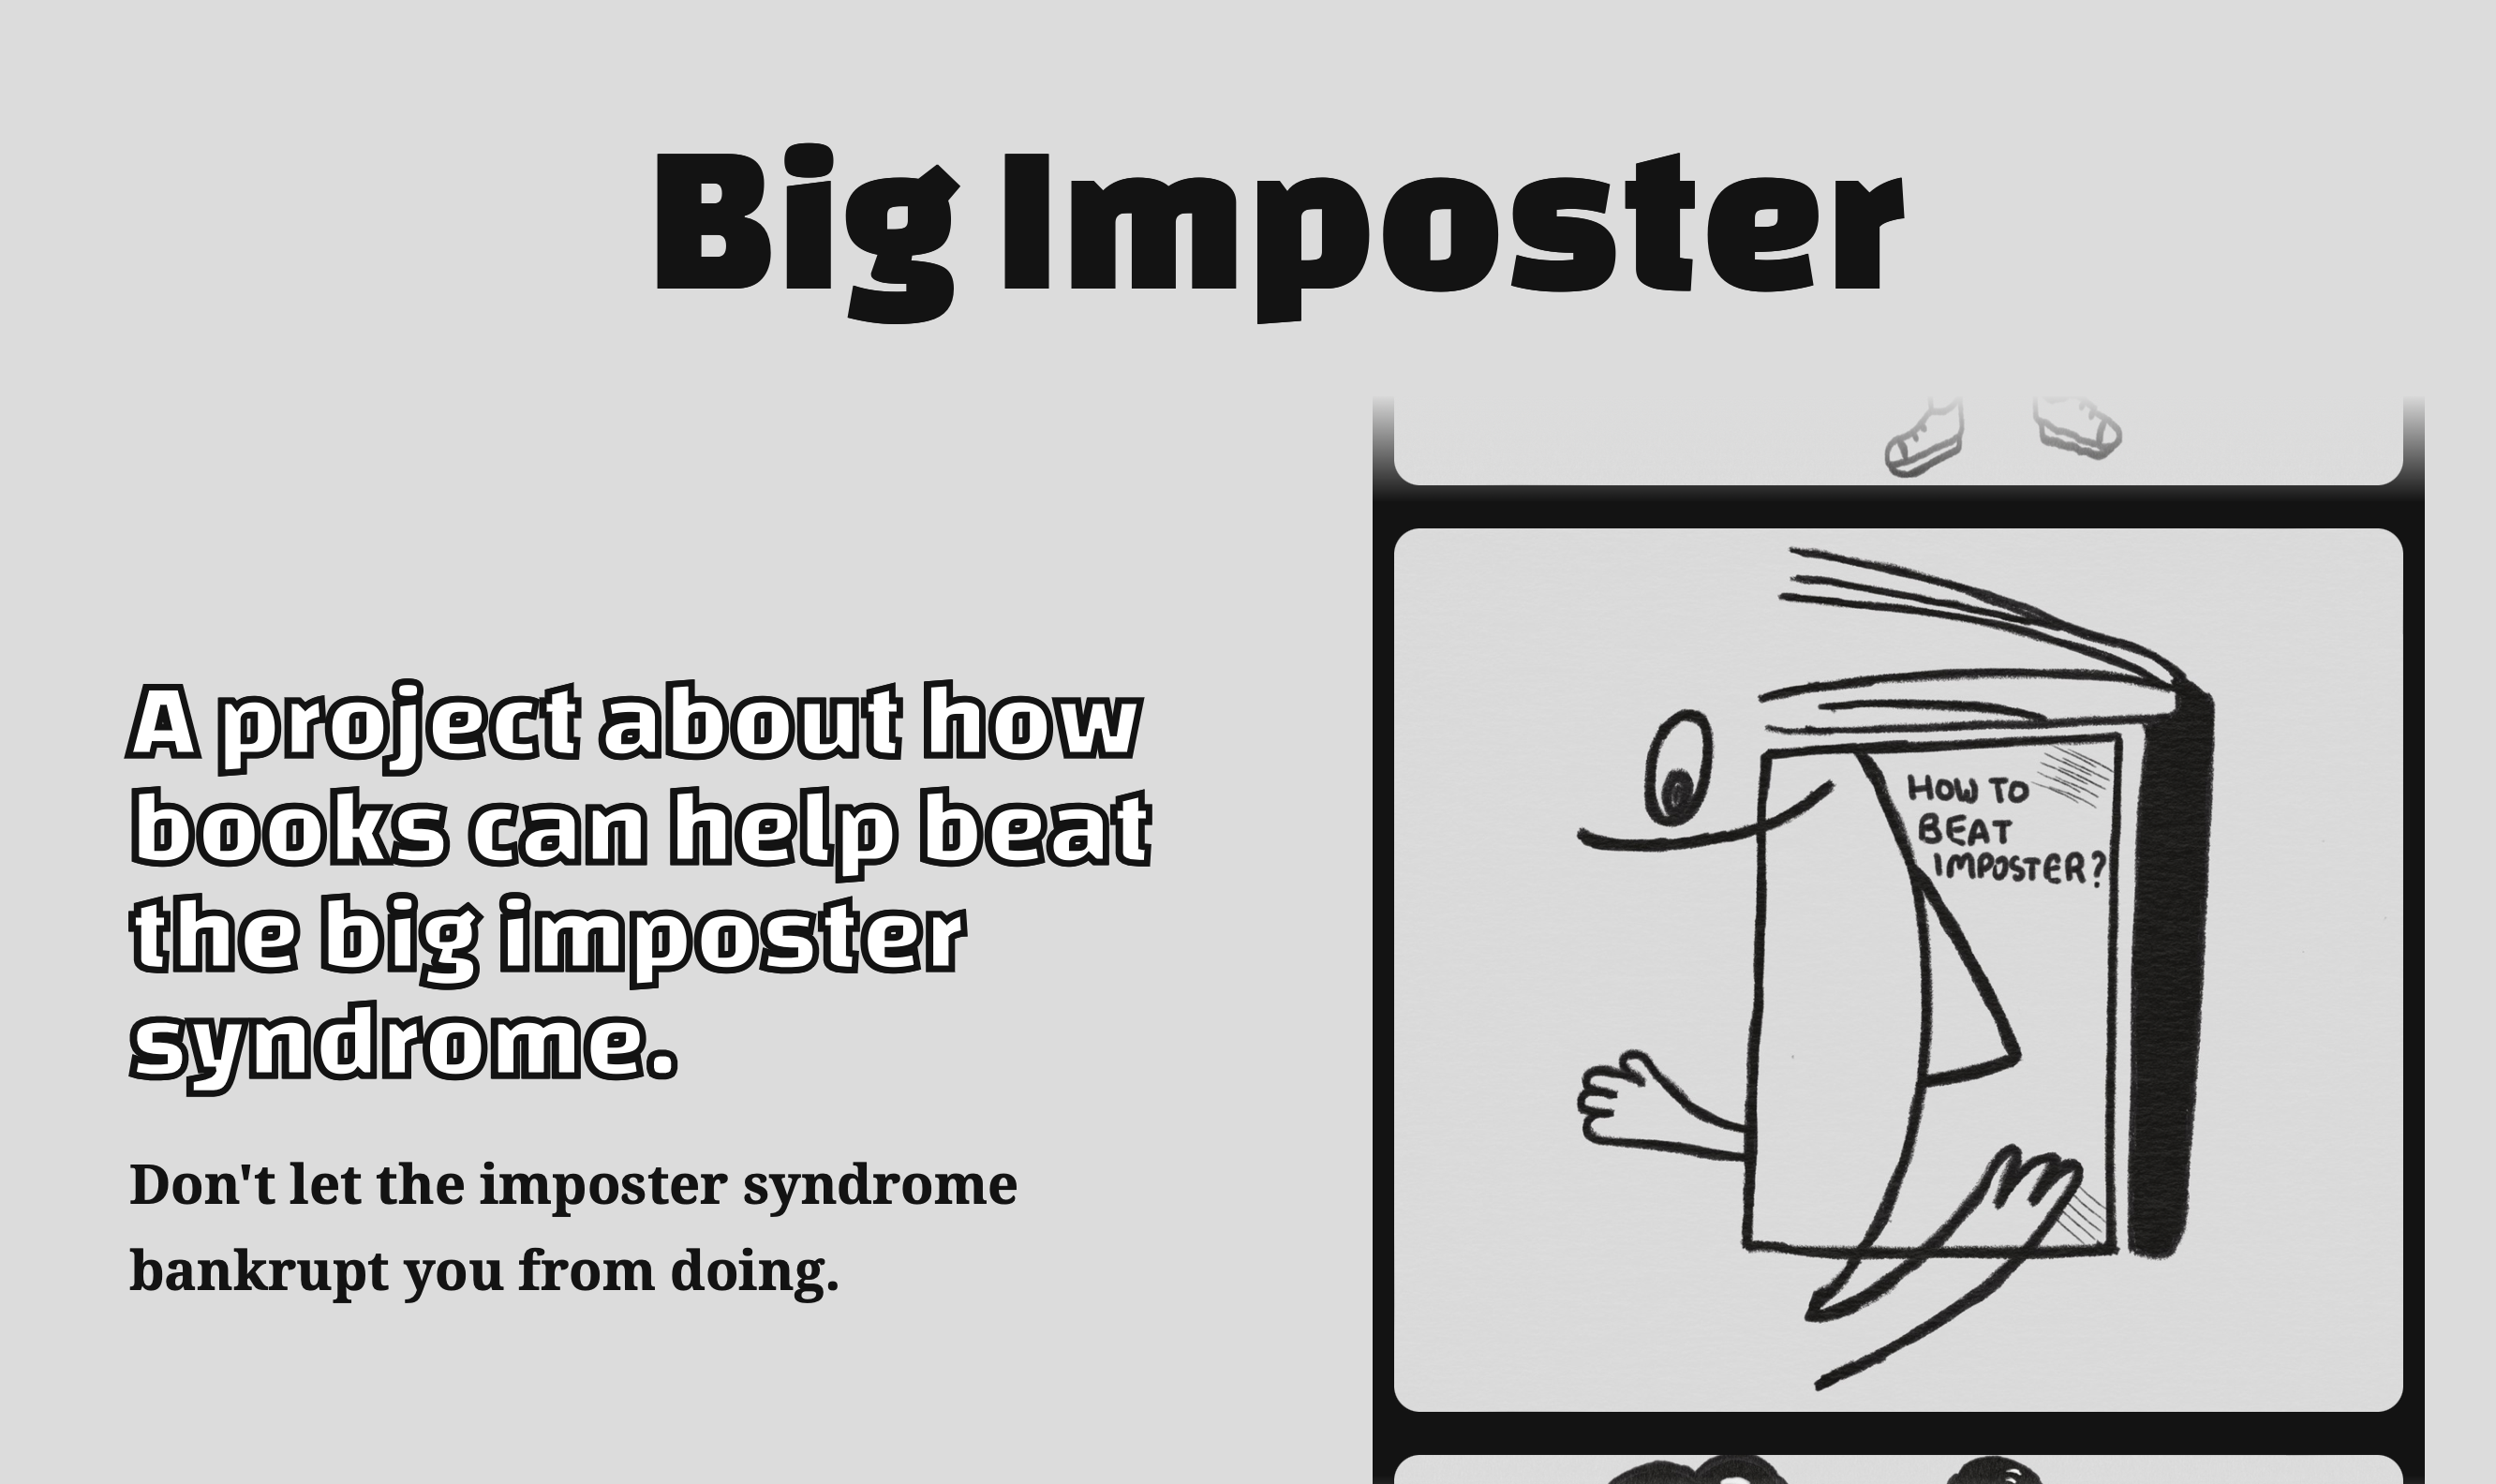
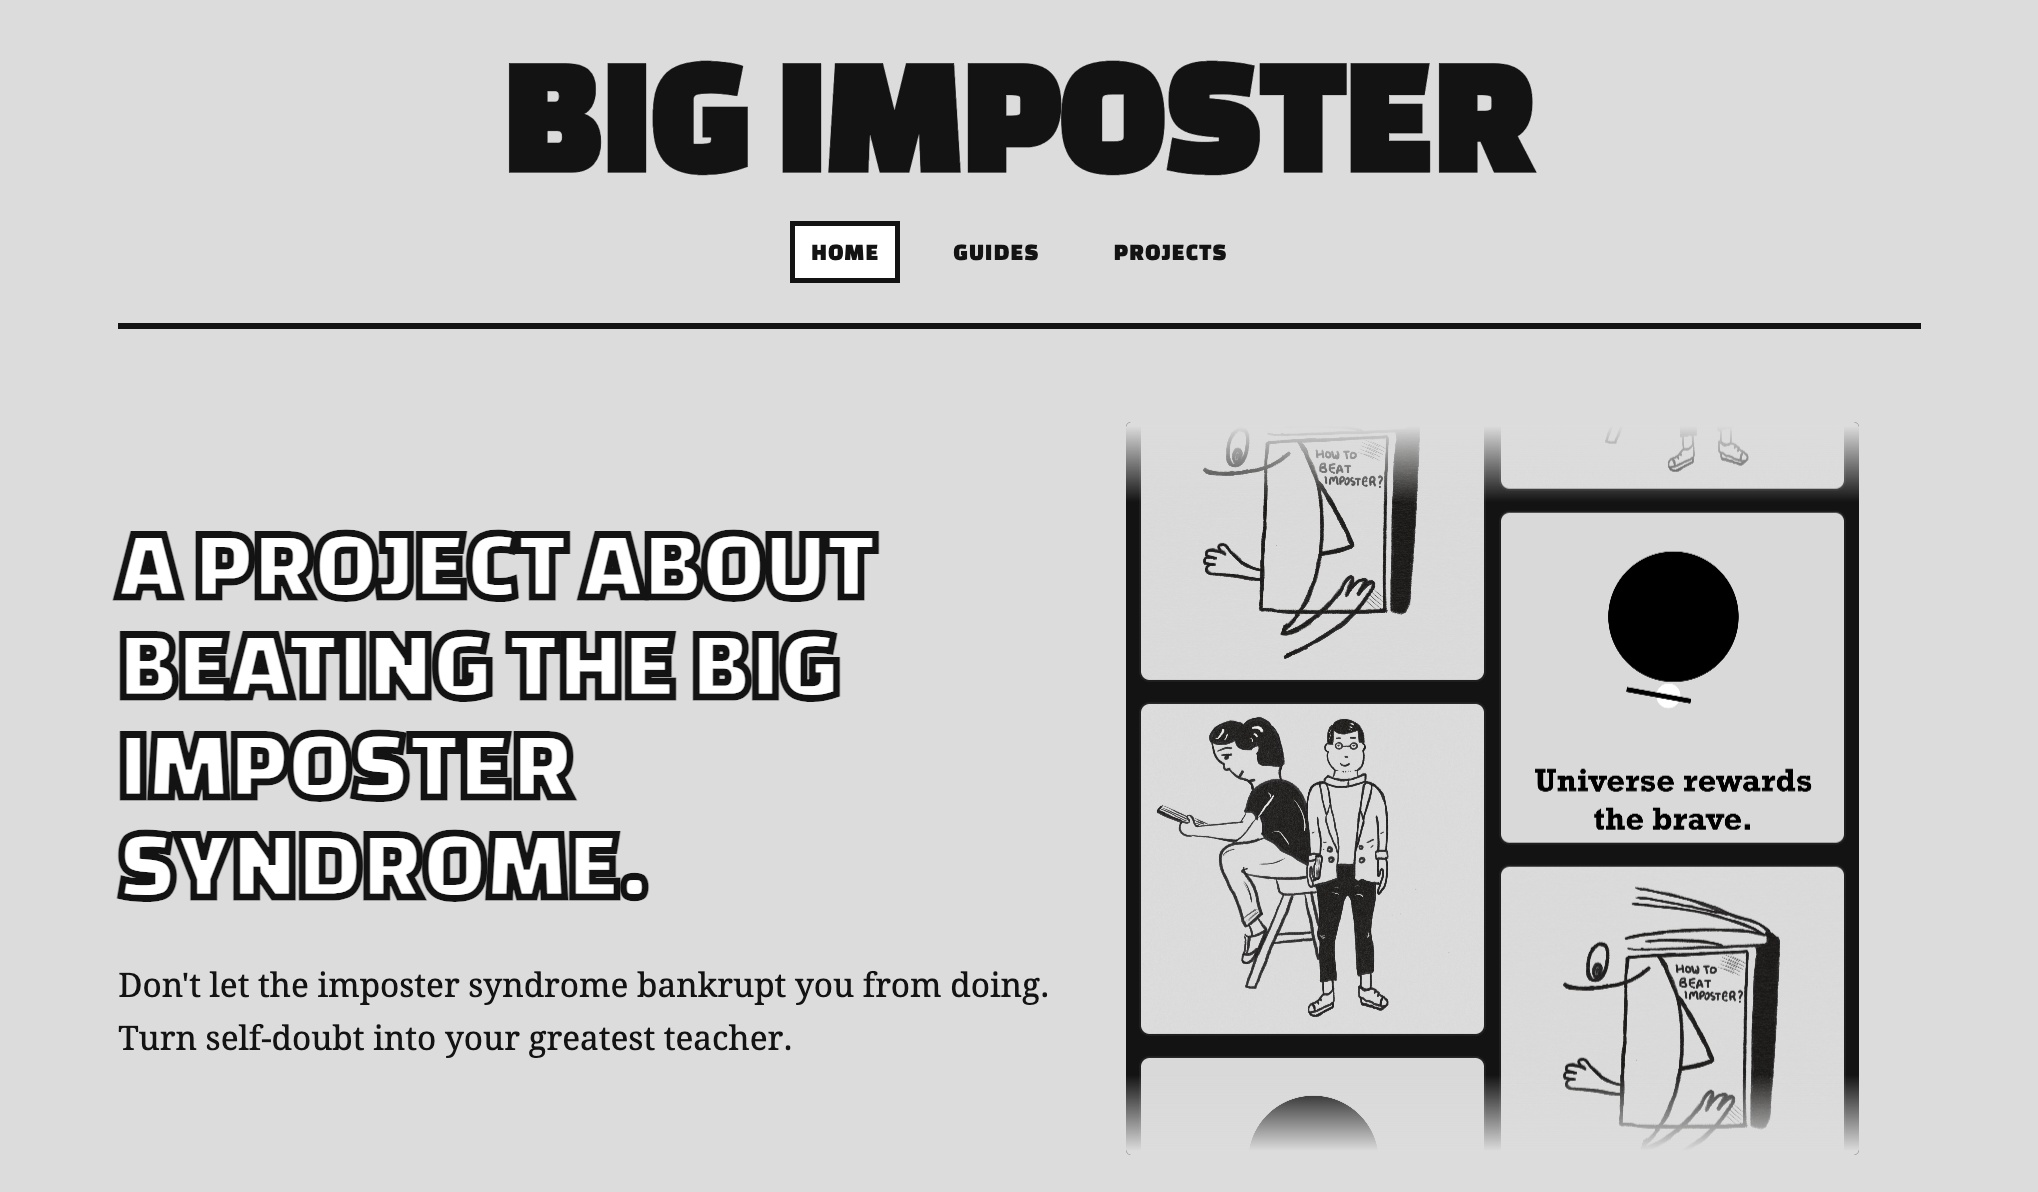
update work

Changed region(s): [[0.0618, 0.031, 0.9892, 1.0], [0.0309, 0.4346, 0.5255, 0.9002]]

diff --git a/src/pages/work.js b/src/pages/work.js
@@ -64,13 +64,12 @@ const WorkIndex = ({ data, location }) => {
           </Zoom>
         </div>
         <div className="work-content-container">
-          <p><strong>[2023]</strong></p>
+          <p><strong>[2023 - Current]</strong></p>
           <ul>
-            <li>Conceptualized and developed a cohesive brand identity for a digital resource dedicated to overcoming imposter syndrome.</li>
-            <li>Executed end-to-end creative direction, designing a complete visual system including a custom logo, illustrations, and high-fidelity website mockups.</li>
-            <li>Project was abandoned.</li>
+            <li>A side project on imposter syndrome.</li>
+            <li>Conceptualized and developed a cohesive brand identity for a digital resource dedicated to overcoming imposter syndrome. Executed end-to-end creative direction, designing a complete visual system including a custom logo, illustrations, and high-fidelity website mockups.</li>
           </ul>
-          <p><strong>Website</strong>: <a href="https://bigimposter.webflow.io">Big Imposter</a></p>
+          <p><strong>Website</strong>: <a href="https://bigimposter.com">Big Imposter</a></p>
         </div>
       </article>
 